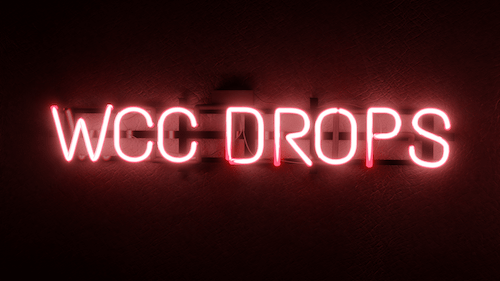
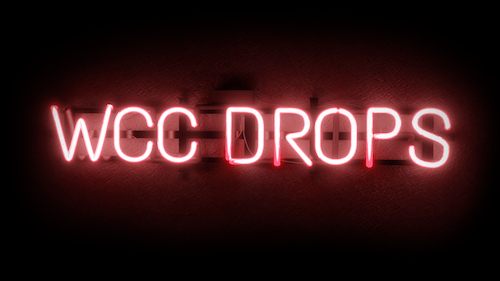
bunch of changes

diff --git a/src/components/Header.js b/src/components/Header.js
@@ -1,13 +1,15 @@
 import React, { useState, useEffect } from 'react';
 import { Col, Row, Container } from 'react-bootstrap'
 import { Link } from 'react-router-dom'
+import { useSpring, animated } from "react-spring";
+
 
 import Cart from './Cart'
 import MenuRight from './Menu'
 import { useShopify } from "../hooks"
 
 import Branding from '../images/wccMin.png';
-import { MdShoppingCart, MdRemoveShoppingCart } from "react-icons/md"
+import { MdShoppingCart } from "react-icons/md"
 import Open from "../images/Open.svg";
 
 const Header = (props) => {
@@ -18,6 +20,7 @@ const Header = (props) => {
 	} = useShopify()
 
     const [Image1, setImage] = useState()
+    // const [selected, setSelected] = useState()
 
     function handleOpen(e) {
 		e.preventDefault()
@@ -43,41 +46,69 @@ const Header = (props) => {
             return setImage("https://i.ibb.co/Scvz3cw/neon-untitled-min.png")
         }
         if (newString === "home") {
-            return setImage("https://i.ibb.co/tpY6df0/neon-home-min.png")
+            return setImage("https://i.ibb.co/kMKxzNL/neon-home-min.png")
         }
-
     })
 
     return (
-        <Container fluid style={{ position: "fixed", zIndex: "9999"}}>
+        <Container fluid style={{ position: "fixed", zIndex: "9999", left: "0" }}>
             <Cart />
             <div>
                 <img 
                     src={Branding} 
-                    alt="logo" 
+                    alt="Click to go the Home Page"
                     className="branding"
                     onClick={() => window.appHistory.push("/home")}
                     />
             </div>
             <Row className="headerGradient">
-            <Col 
+                {/* Nav left side */}
+                <Col 
+                    className='d-xs-none d-none d-lg-block d-md-block parentHeader'
+                    lg={{ span: 3, offset: 1 }}
+                    md={{ span: 3, offset: 1 }}
+                    // style={{ background: "green", opacity: "0.3"}}
+                >
+                    <Link 
+                        to="/shop" 
+                        className="headerLink"
+                    >
+                        shop
+                    </Link>
+                    <Link 
+                        to="/gallery" 
+                        className="headerLink"
+                    >
+                        Gallery
+                    </Link>
+                </Col>
+                {/* Image */}
+                <Col 
                     xs={{ span: 6, offset: 3 }}
 					sm={{ span: 4, offset: 4 }}
-					md={{ span: 2, offset: 5 }}
-                    lg={{ span: 2, offset: 5 }}
+					md={{ span: 4, offset: 0 }}
+                    lg={{ span: 4, offset: 0 }}
+                    // style={{ background: "red", opacity: "0.3"}}
                 >
                 <img 
                     alt={`${window.appHistory.location.pathname} text`}
                     src={Image1}
                     style={{
-                        width: "100%",
+                        width: "80%",
                         top: "0",
-                        background: "black"
+                        background: "none",
+                        display: "block",
+                        marginLeft: "auto",
+                        marginRight: "auto",
+                        minWidth: "200px",
+                        maxWidth: "250px",
+                        width: "50%",
                     }}
                 />
                 </Col>
+                {/* shopping cart thing icon */}
                 <Col
-                    className='d-block d-sm-none'
+                    className='d-block d-md-none'
                     lg={3}
                     xs={3}
                 >
@@ -88,24 +119,28 @@ const Header = (props) => {
 				        </button> 
 			        </div>
                 </Col>
+                {/* Nav right side  */}
                 <Col
-                    className='d-xs-none d-none d-lg-block parentHeader'
-                    lg={{ span: 4, offset: 1}}
+                    className='d-xs-none d-none d-lg-block d-md-block parentHeader'
+                    lg={{ span: 3, offset: 0}}
+                    md={{ span: 3, offset: 0 }}
+                    // style={{ background: "green", opacity: "0.3"}}
                 >
-                    <Link to="/shop" className='headerLink'>
-                        Shop
-                    </Link>
-                    <Link to="/gallery" className='headerLink' >
-                        Gallery
-                    </Link>
-                    <Link to="/connect" className='headerLink' >
+                    <Link 
+                        to="/connect" 
+                        className="headerLink"
+                    >
                         Connect
                     </Link>
-                    <Link to="" className='headerLink' onClick={(e) => { cartStatus ? handleClose(e) : handleOpen(e) }} >
+                    <Link 
+                        to="" 
+                        className="headerLink"
+                        onClick={(e) => { cartStatus ? handleClose(e) : handleOpen(e) }} 
+                    >
                         Cart
                     </Link>
-                    <span></span>
-                    <hr className="headerLine" />
+                    {/* <span style={spanUnderline}> head</span> */}
+                    {/* <hr className="headerLine" /> */}
                 </Col>
             </Row>
         </Container>

diff --git a/src/index.css b/src/index.css
@@ -115,12 +115,13 @@ h3 {
 
 .headerGradient {
   background: rgb(0,0,0);
-  background: linear-gradient(180deg, rgba(0,0,0,1) 80%, rgba(0,0,0,0) 100%);
-  /* background: black; */
+  /* background: linear-gradient(180deg, rgba(0,0,0,1) 95%, rgba(0,0,0,0) 100%); */
+  background: black;
   position: fixed;
   z-index: 10;
   width: 100vw;
-  height: 18vh;
+  height: 15vh;
+  filter: drop-shadow(0px 10px 4px black);
 }
 
 .RyansLetter {
@@ -225,6 +226,7 @@ height: 1vh;
   margin-top: 50%;
   position: absolute;
   height: 6.5rem;
+  min-height: 4.7vw;
   width: auto;
   transition: all 0.4s ease-in-out;
 }
@@ -233,23 +235,47 @@ height: 1vh;
   margin-top: 50%;
   position: absolute;
   height: 6.5rem;
+  min-height: 4.7vw;
   width: auto;
   transform: scale(1.5);
 }
 
 .yearValue {
+  /* width: 90vw; */
+  text-align: center;
+  line-height: 90%;
   font-family: neuzon,sans-serif;
   font-weight: 400;
   font-style: normal;
   font-size: 17vh;
+  font-size: max(15vw, 110px);
   opacity: 0.5;
   position: absolute;
   z-index: -9;
 }
 
-.headerLink:hover {
-  width: 25%;
+/* .is-active {
+  width: 20%;
   display: inline-block;
+  font-family: futura-pt, sans-serif;
+  font-weight: 300;
+  font-style: normal;
+	font-size: 2vh;
+  color: grey;
+  text-decoration: none;
+} */
+
+.parentHeader {
+  top: 6vh;
+  text-align: justify;
+  width: 100%;
+  justify-content: center;
+}
+
+.headerLink:hover {
+  width: 50%;
+  display: inline-block;
+  text-align: center;
   font-family: futura-pt, sans-serif;
   font-weight: 300;
   font-style: normal;
@@ -259,8 +285,9 @@ height: 1vh;
 }
 
 .headerLink {
-  width: 25%;
+  width: 50%;
   display: inline-block;
+  text-align: center;
   font-family: futura-pt, sans-serif;
   font-weight: 300;
   font-style: normal;
@@ -269,16 +296,12 @@ height: 1vh;
 }
 
 .headerLine {
-  width: 85%;
+  width: 100%;
   margin-left: -10px;
   margin-right: auto;
   background-color: white;
   border: 1 none;
-}
-
-.parentHeader {
-  top: 6vh;
-  text-align: justify;
+  position: absolute;
 }
 
 .cardSection {

diff --git a/src/components/Connect.js b/src/components/Connect.js
@@ -35,7 +35,8 @@ const list = [{
             },
             {
                 item: 'https://i.ibb.co/1dj9XvP/Asset-13-300x.png',
-                link: '2008–2010'
+                // link: '2008–2010'
+                link: '2008'
 
             },
             {
@@ -55,11 +56,13 @@ const list = [{
             },
             {
                 item: 'https://i.ibb.co/Cz0xHRd/Asset4-1-300x.png', 
-                link: '1993–1995'
+                // link: '1993–1995'
+                link: '1993'
             },
             {
                 item: 'https://i.ibb.co/YTHn9GY/Asset-5-1-300x.png', 
                 link: '1995-2000'
+                // link: '1995'
             },
             {
                 item: 'https://i.ibb.co/9cZ5yLr/Asset-6-1-300x.png', 
@@ -72,7 +75,7 @@ const trans = (x, y, s) => `perspective(600px) rotateX(${x}deg) rotateY(${y}deg)
 
 const Connect = () => {
     const [props, set] = useSpring(() => ({ xys: [0, 0, 1], config: { mass: 5, tension: 350, friction: 40 } }))
-    const [yearValue, setYearValue] = useState("")
+    const [yearValue, setYearValue] = useState("Hover Me")
 
     const Header_ImageConnect = {
         position: "fixed",
@@ -178,6 +181,7 @@ const Connect = () => {
                             style={{
                                 position: "absolute",
                                 height: "15rem",
+                                minHeight: "15vw"
                             }}
                             // className="logoCircleTransition"
                             onPointerOver={() => setYearValue("2018")}

diff --git a/src/components/Home.js b/src/components/Home.js
@@ -4,19 +4,15 @@ import { Canvas } from 'react-three-fiber';
 import { PerspectiveCamera, Html } from 'drei';
 // import { useShopify } from "../hooks"
 
-import Controls from '../components3D/Controls'
-import Lights from '../components3D/Lights'
-import Environment from '../components3D/Environment'
-import Shadow from '../components3D/Shadow'
-import Objects from '../components3D/Objects'
-import Loading from '../lottie/Loading'
-import Swipe from '../lottie/Swipe'
+import Controls from '../components3D/Controls';
+import Lights from '../components3D/Lights';
+import Environment from '../components3D/Environment';
+import Shadow from '../components3D/Shadow';
+import Objects from '../components3D/Objects';
+import Loading from '../lottie/Loading';
+import Swipe from '../lottie/Swipe';
+import Header from './Header';
 
-// import MenuRight from './Menu'
-// import Cart from './Cart'
-import Header from './Header'
-
-// import Branding from '../images/wccMin.png';
 import Left from '../images/arrowLeft.png';
 import Right from '../images/arrowRight.png';
 

diff --git a/src/components3D/Shirt.js b/src/components3D/Shirt.js
@@ -20,12 +20,8 @@ export default function Shirt(props) {
   const scaleDown = s * window.innerWidth / 2000
 
   const animatedProps = useSpring({
-    hovered: expand ? [0.08, 0.08, 0.08] : [0.07, 0.07, 0.07],
+    hovered: expand ? [0.06, 0.06, 0.06] : [0.05, 0.05, 0.05],
   });
-
-  // const animatedProps = useSpring({
-  //   hovered: expand ? [0.05, 0.05, 0.05] : [0.04, 0.04, 0.04],
-  // });
 
   const group = useRef()
   const { nodes, materials } = useGLTF('/Shirt1.glb')
@@ -33,7 +29,7 @@ export default function Shirt(props) {
   return (
     <a.group 
       ref={group} 
-      {...props} 
+      {...props}
       dispose={null}
       onPointerOver={() => setExpand(true)}
       onPointerOut={() => setExpand(false)}

diff --git a/src/components3D/FrameDraco.js b/src/components3D/FrameDraco.js
@@ -19,7 +19,7 @@ export default function FrameDraco(props, index) {
   const scaleDown = s * window.innerWidth / 2000
 
   const animatedProps = useSpring({
-    hovered: expand ? [1.9, 1.9, 1.9] : [1.8, 1.8, 1.8],
+    hovered: expand ? [2, 2, 2] : [1.8, 1.8, 1.8]
   });
 
   const group = useRef();
